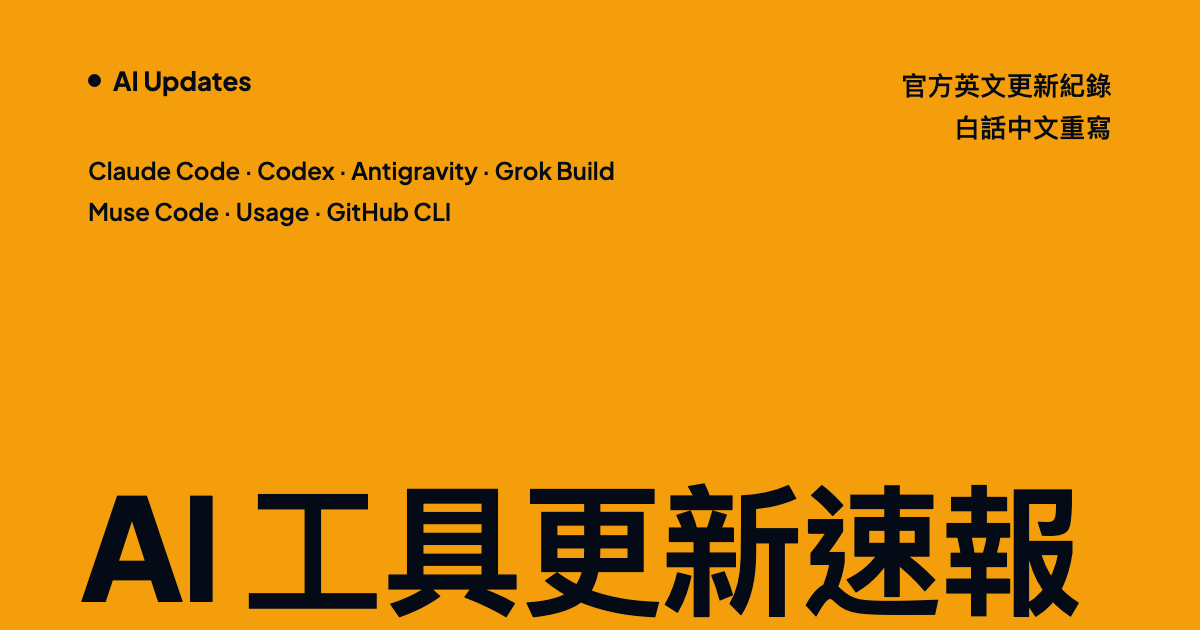
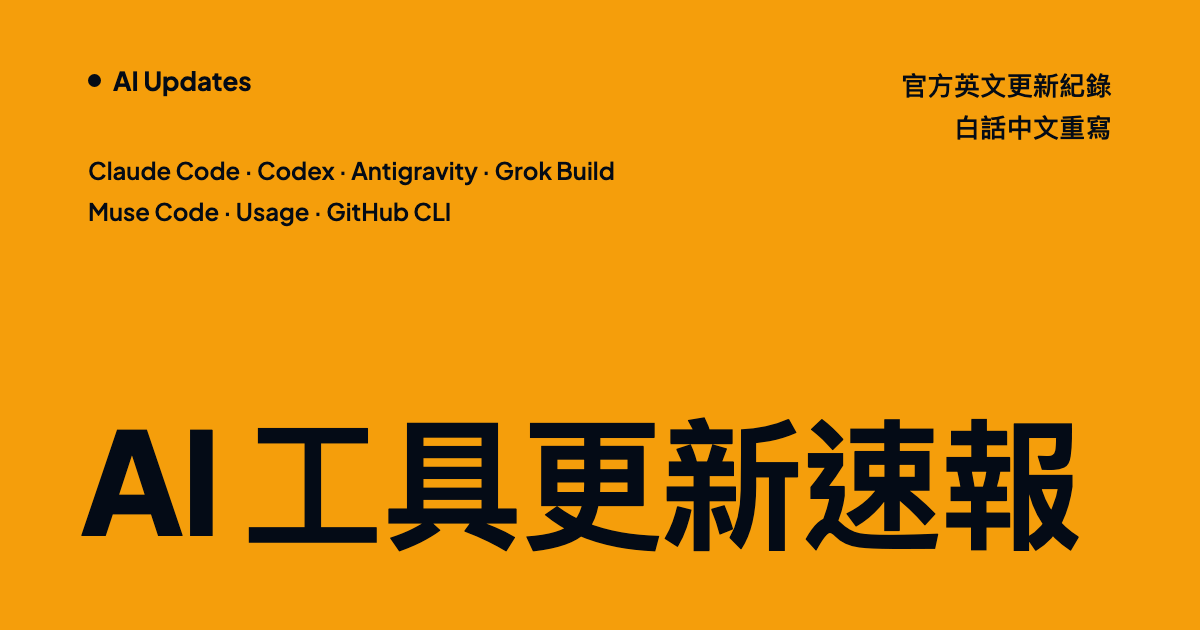
fix(site): lift share image title off the bottom edge

Changed region(s): [[0.0617, 0.6635, 0.8942, 0.9952]]

diff --git a/docs/og-card.html b/docs/og-card.html
@@ -6,7 +6,7 @@
   <title>AI 工具更新速報</title>
   <style>
     @font-face{font-family:'Plus Jakarta Sans';font-weight:200 800;src:url(fonts/plus-jakarta-sans-latin.woff2) format("woff2")}
-    *{box-sizing:border-box}html,body{margin:0;width:1200px;height:630px;overflow:hidden}body{background:#F59E0B;color:#040B16;font-family:"Plus Jakarta Sans","PingFang TC","Noto Sans TC",sans-serif}.card{width:1200px;height:630px;position:relative;overflow:hidden}.brand{position:absolute;left:88px;top:64px;display:flex;align-items:center;gap:12px;font-size:26px;font-weight:700}.brand::before{content:"";width:13px;height:13px;border-radius:50%;background:#040B16}.side{position:absolute;right:88px;top:64px;text-align:right;font-size:26px;line-height:1.6;font-weight:500}.tools{position:absolute;left:88px;top:150px;font-size:24px;line-height:1.7;font-weight:600}h1{position:absolute;left:80px;bottom:14px;margin:0;white-space:nowrap;font:800 142px/1 "Plus Jakarta Sans","PingFang TC","Noto Sans TC",sans-serif;letter-spacing:-.02em}
+    *{box-sizing:border-box}html,body{margin:0;width:1200px;height:630px;overflow:hidden}body{background:#F59E0B;color:#040B16;font-family:"Plus Jakarta Sans","PingFang TC","Noto Sans TC",sans-serif}.card{width:1200px;height:630px;position:relative;overflow:hidden}.brand{position:absolute;left:88px;top:64px;display:flex;align-items:center;gap:12px;font-size:26px;font-weight:700}.brand::before{content:"";width:13px;height:13px;border-radius:50%;background:#040B16}.side{position:absolute;right:88px;top:64px;text-align:right;font-size:26px;line-height:1.6;font-weight:500}.tools{position:absolute;left:88px;top:150px;font-size:24px;line-height:1.7;font-weight:600}h1{position:absolute;left:80px;bottom:80px;margin:0;white-space:nowrap;font:800 142px/1 "Plus Jakarta Sans","PingFang TC","Noto Sans TC",sans-serif;letter-spacing:-.02em}
   </style>
 </head>
 <body><main class="card"><div class="brand">AI Updates</div><div class="side">官方英文更新紀錄<br>白話中文重寫</div><div class="tools">Claude Code · Codex · Antigravity · Grok Build<br>Muse Code · Usage · GitHub CLI</div><h1>AI 工具更新速報</h1></main></body>
